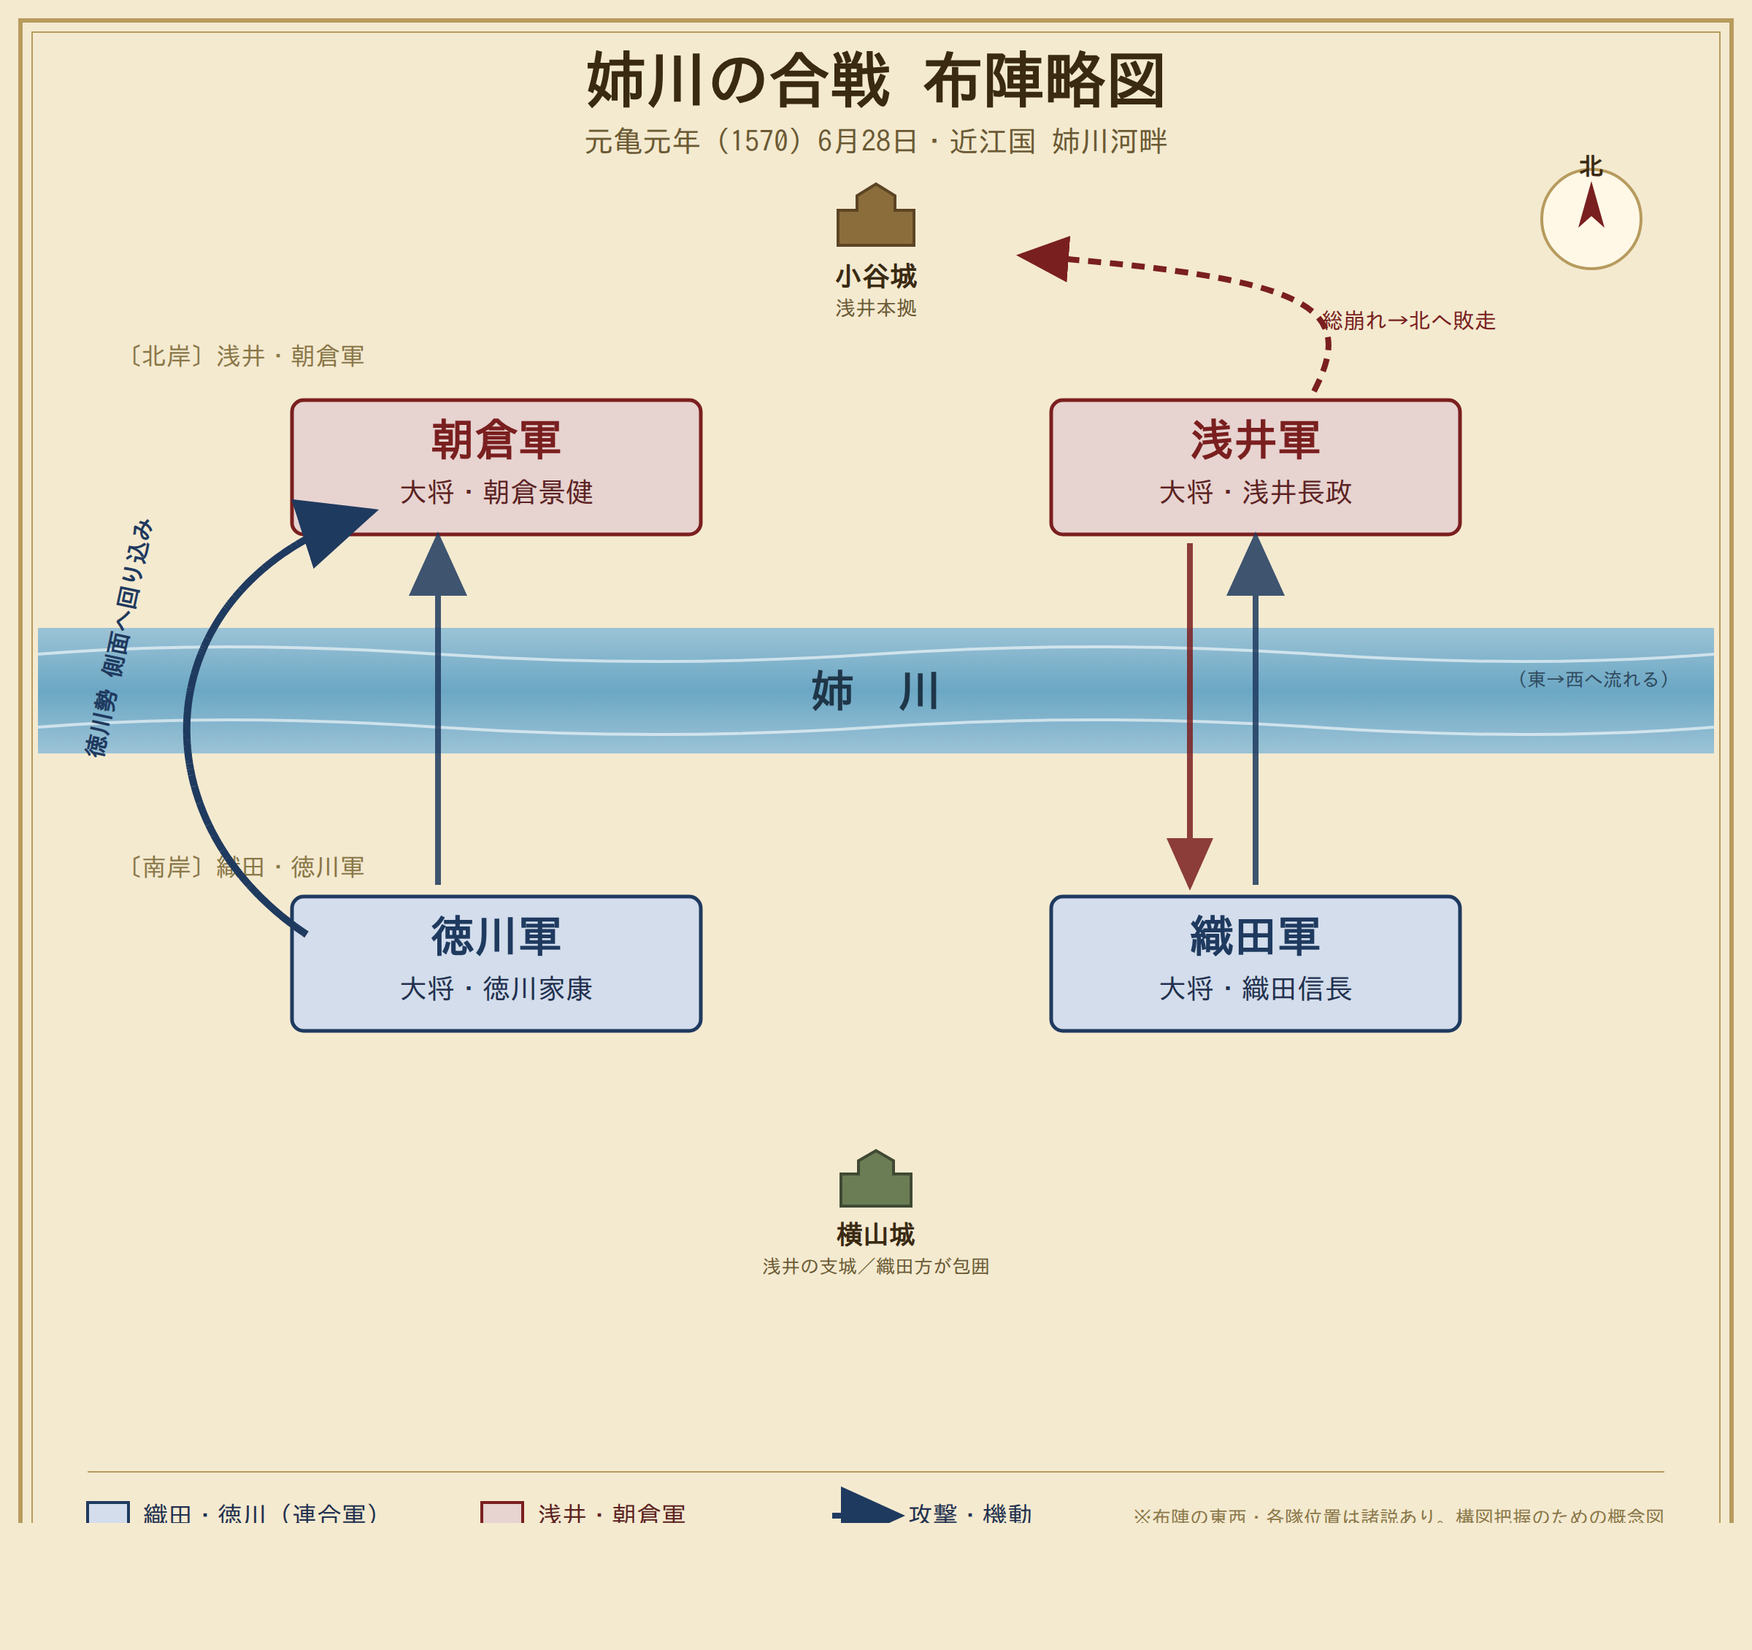
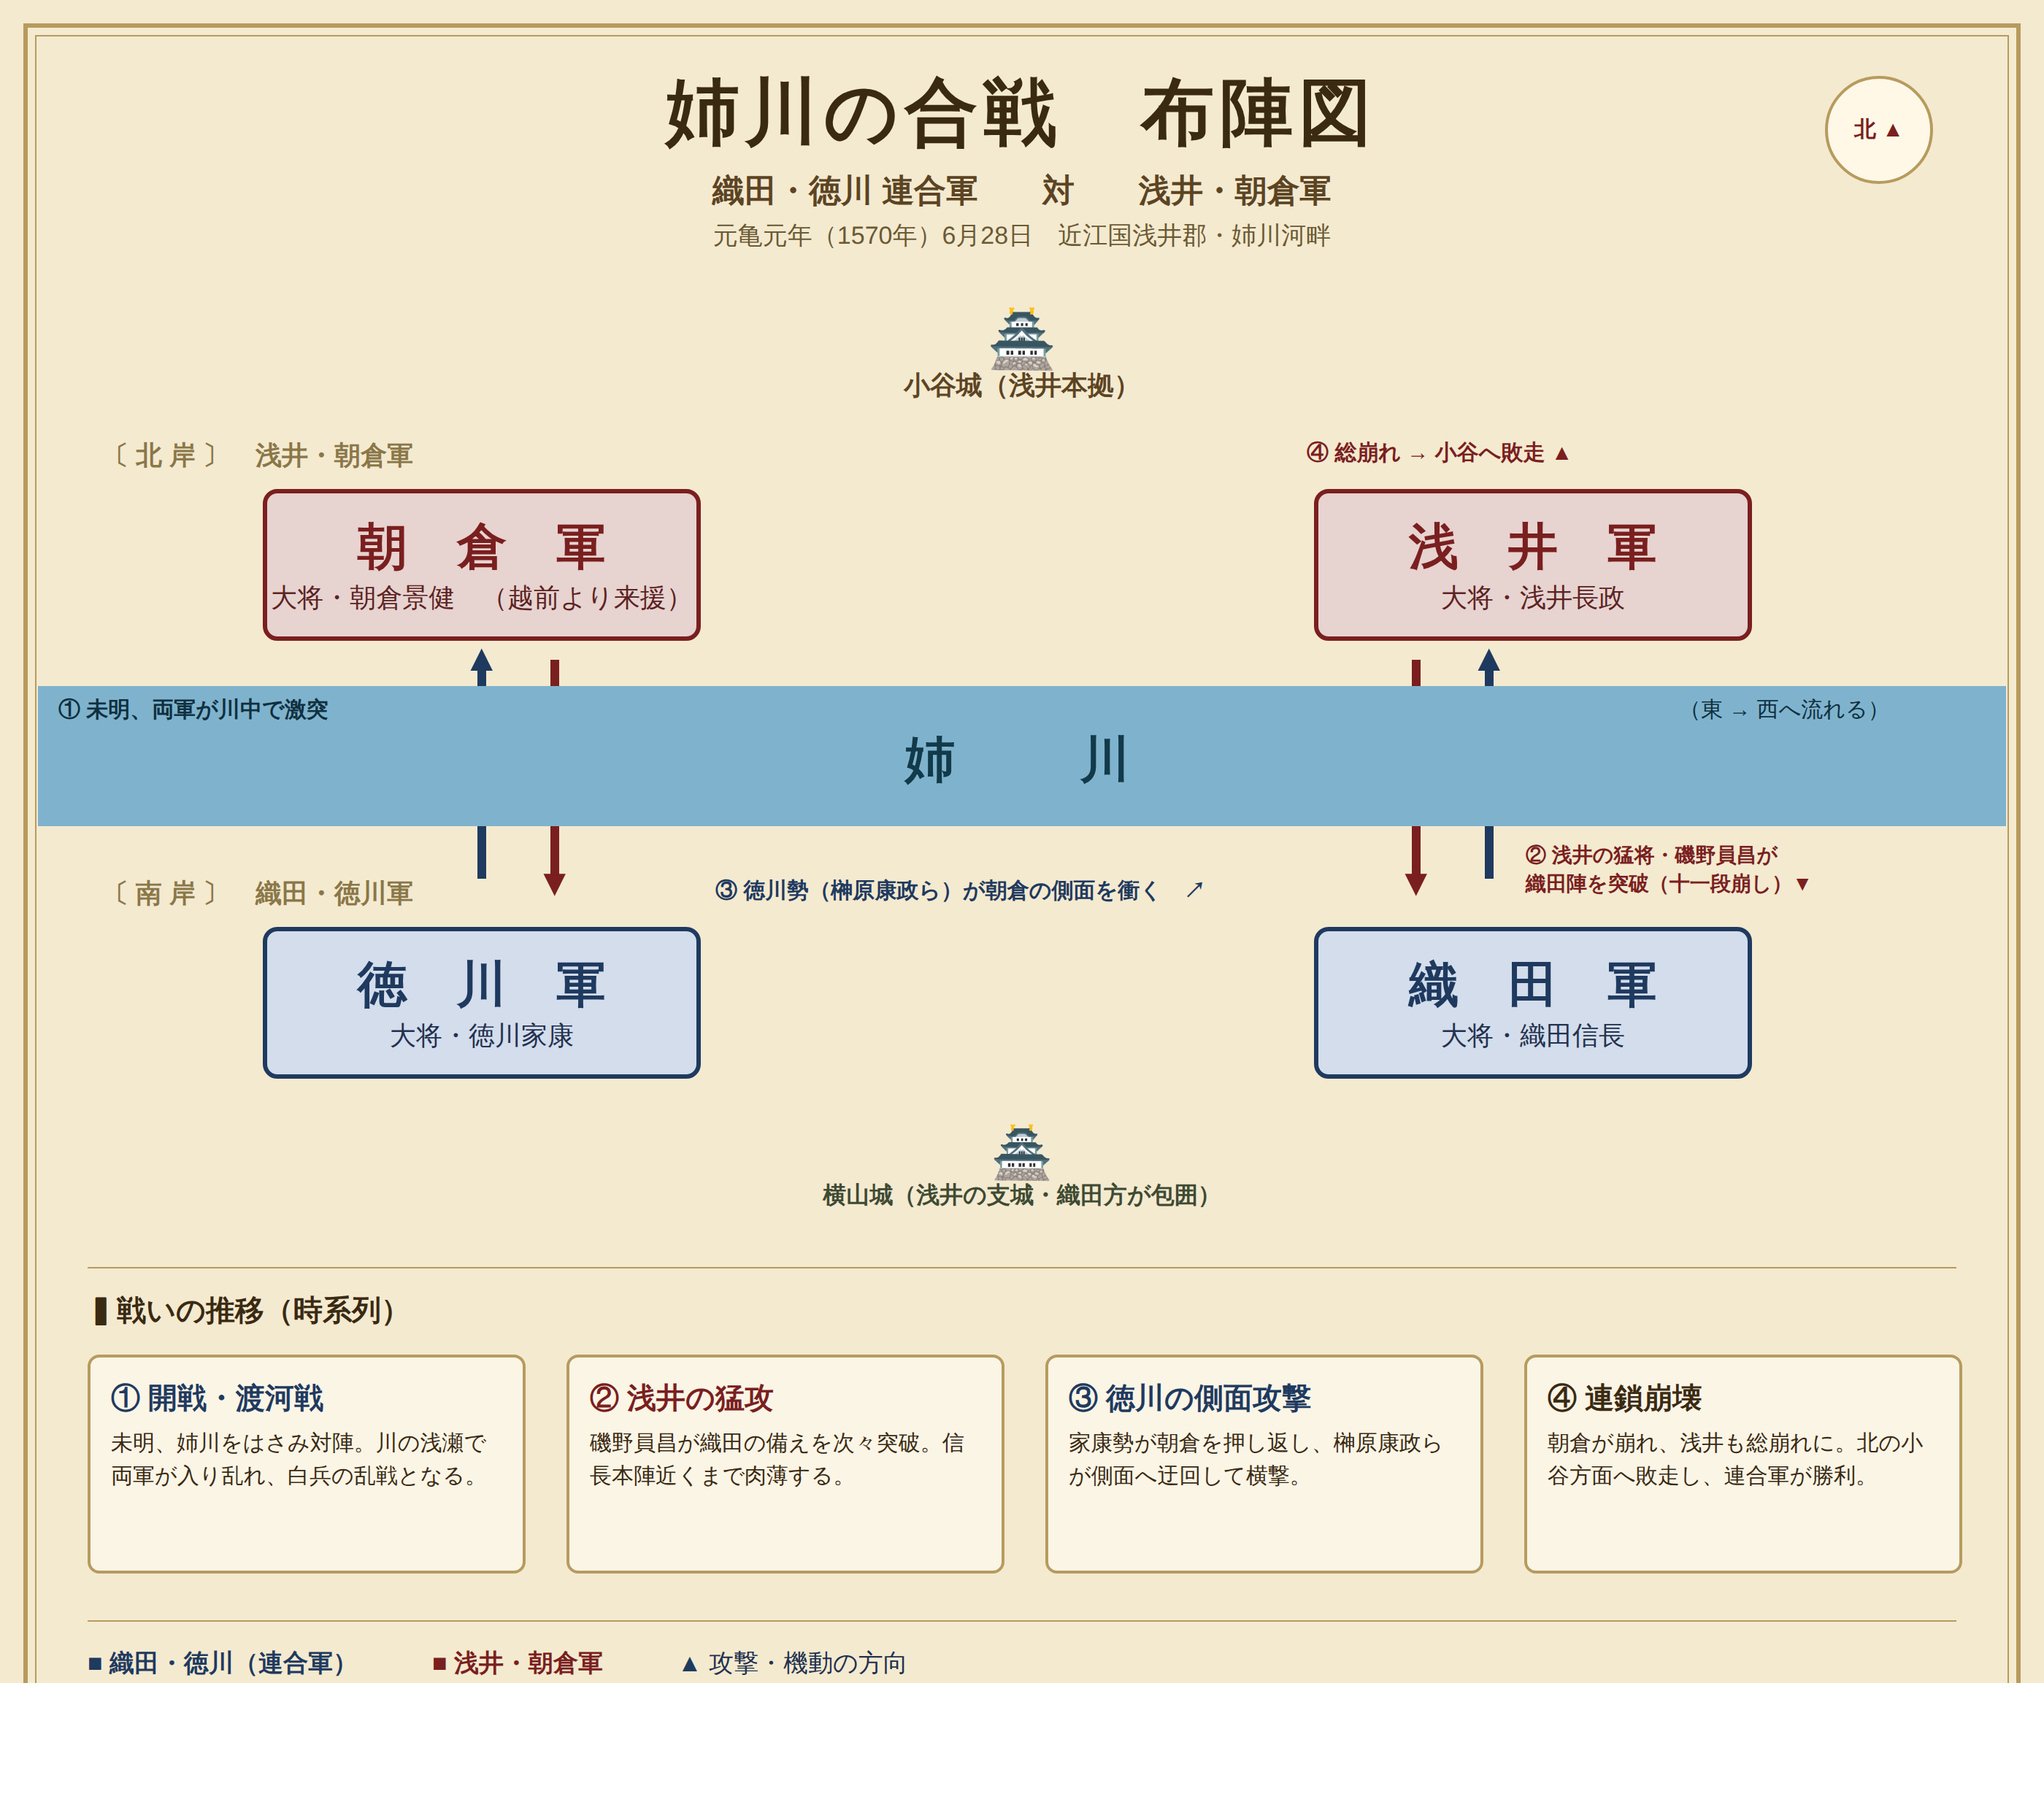
Upgrade battle map to detailed reference version with timeline and tactics
Claude-Session: https://claude.ai/code/session_01Y9NJEQzDoyJakhaSsWW2YX

diff --git a/articles/images/anegawa-fujin-zu-canva.html b/articles/images/anegawa-fujin-zu-canva.html
@@ -79,7 +79,7 @@
   <div style="position:absolute;top:600px;left:490px;width:360px;font-size:15px;font-weight:700;color:#1f3a5f;">③ 徳川勢（榊原康政ら）が朝倉の側面を衝く　↗</div>
 
   <!-- Isono breakthrough callout (above Oda box) -->
-  <div style="position:absolute;top:575px;left:895px;width:305px;font-size:15px;font-weight:700;color:#7a1f1f;">② 浅井の猛将・磯野員昌が織田陣を突破（十一段崩し）▼</div>
+  <div style="position:absolute;top:576px;left:1045px;width:250px;font-size:14px;font-weight:700;color:#7a1f1f;line-height:1.4;">② 浅井の猛将・磯野員昌が<br>織田陣を突破（十一段崩し）▼</div>
 
   <!-- Yokoyama castle -->
   <div style="position:absolute;top:770px;left:640px;width:120px;text-align:center;font-size:34px;">🏯</div>

diff --git a/articles/anegawa-no-tatakai.md b/articles/anegawa-no-tatakai.md
@@ -133,9 +133,9 @@
 
 ## 5. 略図でみる布陣
 
-![姉川の合戦 布陣略図](images/anegawa-fujin-zu.png)
+![姉川の合戦 布陣図](images/anegawa-fujin-zu.png)
 
-*▲ 図：姉川をはさみ、北岸に浅井・朝倉軍、南岸に織田・徳川軍が対峙。徳川勢の側面攻撃で朝倉軍が崩れ、連鎖して浅井軍も北へ敗走した。*
+*▲ 図：姉川をはさみ、北岸に浅井・朝倉軍、南岸に織田・徳川軍が対峙。①未明の渡河戦→②磯野員昌による織田陣突破（十一段崩し）→③徳川勢（榊原康政ら）の側面攻撃→④朝倉・浅井の連鎖崩壊、という戦いの推移も図中に示した。*
 
 > **noteに載せるときは**：上の画像ファイル `images/anegawa-fujin-zu.png` を、note記事のこの位置に画像として挿入してください。画像が使えない場合は、下のテキスト略図をコードブロックとして貼っても構図が伝わります。
 
